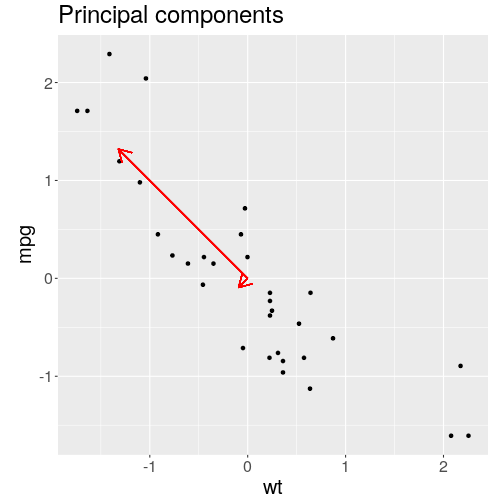
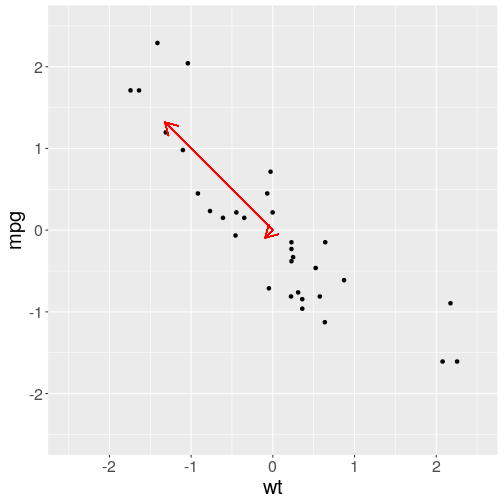
Transforming with eigenvectors

diff --git a/pca.html b/pca.html
@@ -4,7 +4,7 @@
     <title>Principal Component Analysis</title>
     <meta charset="utf-8" />
     <meta name="author" content="David Neuzerling" />
-    <meta name="date" content="2020-01-30" />
+    <meta name="date" content="2020-01-31" />
     <link href="libs/remark-css/default.css" rel="stylesheet" />
     <link href="libs/remark-css/default-fonts.css" rel="stylesheet" />
   </head>
@@ -14,7 +14,7 @@ class: center, middle, inverse, title-slide
 
 # Principal Component Analysis
 ### David Neuzerling
-### 2020-01-30
+### 2020-01-31
 
 ---
 
@@ -125,12 +125,20 @@ mtcars_scaled &lt;- mtcars %&gt;%
 
 
 ```r
-mtcars_scaled %&gt;% 
-  ggplot(aes(x = wt, y = mpg)) + 
+square_ggplot &lt;- function(data) {
+  ggplot(data, aes(x = wt, y = mpg)) + 
   geom_point() + 
+  xlim(c(-2.5, 2.5)) +
+  ylim(c(-2.5, 2.5)) +
   coord_fixed() + # makes the plot square
-  theme(text = element_text(size = 20)) +
-  ggtitle("Normalised wt and mpg")
+  theme(text = element_text(size = 20))
+}
+```
+
+
+```r
+mtcars_scaled %&gt;% 
+  square_ggplot
 ```
 ]
 
@@ -177,16 +185,11 @@ eigenvalue_2 &lt;- eigenstuff$values[2]
 .pull-left[
 
 ```r
-mtcars_scaled %&gt;% 
-  ggplot(aes(x = wt, y = mpg)) + 
-  geom_point() +
+mtcars_scaled %&gt;% square_ggplot +
   arrow(x_end = eigenvector_1[["wt"]],
         y_end = eigenvector_1[["mpg"]]) +
   arrow(x_end = eigenvector_2[["wt"]],
-        y_end = eigenvector_2[["mpg"]]) +
-  theme(text = element_text(size = 20)) +
-  ggtitle("Principal components") +
-  coord_fixed() # makes the plot square
+        y_end = eigenvector_2[["mpg"]])
 ```
 ]
 
@@ -201,23 +204,116 @@ mtcars_scaled %&gt;%
 .pull-left[
 
 ```r
-mtcars_scaled %&gt;% 
-  ggplot(aes(x = wt, y = mpg)) + 
-  geom_point() +
+mtcars_scaled %&gt;% square_ggplot +
   arrow(x_end = eigenvector_1[["wt"]],
         y_end = eigenvector_1[["mpg"]],
         scale = eigenvalue_1) +
   arrow(x_end = eigenvector_2[["wt"]],
         y_end = eigenvector_2[["mpg"]],
-        scale = eigenvalue_2) +
-  theme(text = element_text(size = 20)) +
-  ggtitle("Principal components") +
-  coord_fixed() # makes the plot square
+        scale = eigenvalue_2)
 ```
 ]
 
 .pull-right[
 ![](pca_files/figure-html/mt-cars-scaled-with-vectors-and-eigenvalues-out-1.png)&lt;!-- --&gt;
+]
+
+---
+
+# Original data
+
+.pull-left[
+
+
+```r
+mtcars_scaled %&gt;% 
+  square_ggplot
+```
+]
+
+.pull-right[
+![](pca_files/figure-html/original-data-out-1.png)&lt;!-- --&gt;
+]
+
+---
+
+# Change of basis
+
+.pull-left[
+
+`\begin{align*}
+\text{data} \;&amp; \cdot \\
+\text{eigenvector matrix} \;&amp;
+\end{align*}`
+
+
+```r
+as.matrix(mtcars_scaled) %*% # dot product
+  eigenstuff$vectors %&gt;% 
+  data.frame %&gt;% 
+  setNames(c("wt", "mpg")) %&gt;% 
+  square_ggplot
+```
+]
+
+.pull-right[
+![](pca_files/figure-html/change-of-basis-out-1.png)&lt;!-- --&gt;
+]
+
+---
+
+# Dropping a dimension
+
+.pull-left[
+`\begin{align*}
+\text{data} \;&amp; \cdot \\
+\text{eigenvector matrix} \;&amp; \cdot \\
+\text{projection matrix} \:&amp;
+\end{align*}`
+
+
+```r
+as.matrix(mtcars_scaled) %*%
+  eigenstuff$vectors %*%
+  rbind(c(1, 0),
+        c(0, 0)) %&gt;% 
+  data.frame %&gt;% 
+  setNames(c("wt", "mpg")) %&gt;% 
+  square_ggplot
+```
+]
+
+.pull-right[
+![](pca_files/figure-html/drop-dimension-out-1.png)&lt;!-- --&gt;
+]
+
+---
+
+# Transforming back
+
+.pull-left[
+`\begin{align*}
+\text{data} \;&amp; \cdot \\
+\text{eigenvector matrix} \;&amp; \cdot \\
+\text{projection matrix} \:&amp; \cdot \\
+\text{inverse eigenvector matrix} \;&amp;
+\end{align*}`
+
+
+```r
+as.matrix(mtcars_scaled) %*%
+  eigenstuff$vectors %*%
+  rbind(c(1, 0),
+        c(0, 0))  %*%
+  solve(eigenstuff$vectors) %&gt;% 
+  data.frame %&gt;% 
+  setNames(c("wt", "mpg")) %&gt;% 
+  square_ggplot
+```
+]
+
+.pull-right[
+![](pca_files/figure-html/transforming-back-out-1.png)&lt;!-- --&gt;
 ]
     </textarea>
 <style data-target="print-only">@media screen {.remark-slide-container{display:block;}.remark-slide-scaler{box-shadow:none;}}</style>
